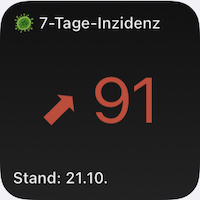
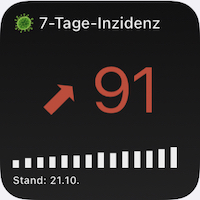
Add diagram to Covid-19 Widget

diff --git a/Covid-19/Covid-19.js b/Covid-19/Covid-19.js
@@ -1,14 +1,37 @@
 // Variables used by Scriptable.
 // These must be at the very top of the file. Do not edit.
 // icon-color: blue; icon-glyph: microscope;
+
+/**************
+Credits:
+  - drewkerr@GitHub (https://github.com/drewkerr/scriptable) for the diagram idea
+**************/
+
 // How many minutes should the cache be valid
-let cacheMinutes = 60 * 2;
+const cacheMinutes = 60 * 2;
+const population = 646000;
+const daysInGraph = 14;
 
 ////////////////////////////////////////////////////////////////////////////////
 let backColor; //Widget background color
 let backColor2; //Widget background color
 let textColor; //Widget text color
 let textWarningColor; //Widget warning text color
+let graphColor;
+
+if (Device.isUsingDarkAppearance()) {
+  backColor = '111111';
+  backColor2 = '222222';
+  textColor = 'EDEDED';
+  textWarningColor = 'CB4335';
+  graphColor = 'EDEDED';
+} else {
+  backColor = '1A5276';
+  backColor2 = '1F618D';
+  textColor = 'EDEDED';
+  textWarningColor = 'CB4335';
+  graphColor = 'EDEDED';
+}
 
 var today = new Date();
 
@@ -20,6 +43,22 @@ const path = files.joinPath(files.documentsDirectory(), "widget-covid")
 const cacheExists = files.fileExists(path)
 const cacheDate = cacheExists ? files.modificationDate(path) : 0
 
+function columnGraph(data, width, height, colour) {
+  let max = Math.max(...data)
+  let context = new DrawContext()
+  context.size = new Size(width, height)
+  context.opaque = false
+  context.setFillColor(colour)
+  data.forEach((value, index) => {
+    let w = width / (2 * data.length - 1)
+    let h = value / max * height
+    let x = width - (index * 2 + 1) * w
+    let y = height - h
+    let rect = new Rect(x, y, w, h)
+    context.fillRect(rect)
+  })
+  return context
+}
 
 async function fetchCovidData() {
   let csv;
@@ -40,26 +79,19 @@ async function getCovidSevenDayIndex() {
   let data = await fetchCovidData();
   let diff = data[data.length - 1][4] - data[data.length - 8][4];
   let diffBefore = data[data.length - 2][4] - data[data.length - 9][4];
-  let idx = diff / 646000 * 100000;
-  let idxBefore = diffBefore / 646000 * 100000;
-  return {index: idx.toFixed(0), indexBefore: idxBefore.toFixed(0), growing: (idx > idxBefore ? true : false), date: (data[data.length - 1][0]).replace('2020', '')};
+  let idx = diff / population * 100000;
+  let idxBefore = diffBefore / population * 100000;
+  
+  let graph = [];
+  for (let i = 0; i < daysInGraph; i++) {  
+    let diff = data[data.length - 1 - i][4] - data[data.length - 8 - i][4];
+    graph.push((diff / population * 100000).toFixed(0))
+  }
+  
+  return {index: idx.toFixed(0), growing: (idx > idxBefore ? true : false), date: (data[data.length - 1][0]).replace('2020', ''), graph};
 }
 
-let covidIndex = await getCovidSevenDayIndex()
-console.log(covidIndex)
-
-
-if (Device.isUsingDarkAppearance()) {
-  backColor = '111111';
-  backColor2 = '222222';
-  textColor = 'EDEDED';
-  textWarningColor = 'CB4335';
-} else {
-  backColor = '1A5276';
-  backColor2 = '1F618D';
-  textColor = 'EDEDED';
-  textWarningColor = 'CB4335';
-}
+let data = await getCovidSevenDayIndex()
 
 // Create Widget
 let widget = new ListWidget();
@@ -80,18 +112,21 @@ provider.font = Font.mediumSystemFont(12)
 provider.textColor = new Color(textColor)
 
 widget.addSpacer()
-
-
   
-let covidText = widget.addText(`${(covidIndex.growing ? "⬈" : "⬊")} ${+covidIndex.index}`)
+let covidText = widget.addText(`${(data.growing ? "⬈" : "⬊")} ${+data.index}`)
 covidText.font = Font.regularSystemFont(50)
-covidText.textColor = covidIndex.index < 50 ? new Color(textColor) : (new Color(textWarningColor));
+covidText.textColor = data.index < 50 ? new Color(textColor) : (new Color(textWarningColor));
 covidText.centerAlignText()
 
 widget.addSpacer()
 
-let dateText = widget.addText(`Stand: ${covidIndex.date}`)
-dateText.font = Font.mediumSystemFont(12)
+let image = columnGraph(data["graph"], 400, 50, new Color(graphColor)).getImage()
+widget.addImage(image)
+
+widget.addSpacer(5)
+
+let dateText = widget.addText(`Stand: ${data.date}`)
+dateText.font = Font.mediumSystemFont(8)
 dateText.textColor = new Color(textColor)
 
 
